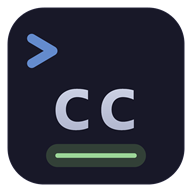
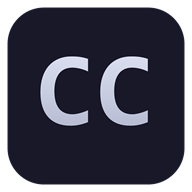
refactor: Enhance agent UUID fetching with retry logic and update UI elements for better branding and information display

Changed region(s): [[0.125, 0.1562, 0.4688, 0.6875], [0.5, 0.2812, 0.7812, 0.6875], [0.2188, 0.75, 0.7812, 0.875]]

diff --git a/wwwroot/index.html b/wwwroot/index.html
@@ -4,7 +4,7 @@
 <head>
     <meta charset="utf-8" />
     <meta name="viewport" content="width=device-width, initial-scale=1.0, maximum-scale=1.0, user-scalable=no" />
-    <title>cc</title>
+    <title>CC</title>
     <base href="/" />
     <link rel="preload" id="webassembly" />
     <link rel="stylesheet" href="css/app.css" />
@@ -12,7 +12,14 @@
     <link href="cc.styles.css" rel="stylesheet" />
     <link rel="manifest" href="manifest.webmanifest" />
     <link rel="apple-touch-icon" sizes="192x192" href="icon-192.png" />
+    <link rel="apple-touch-icon" sizes="512x512" href="icon-512.png" />
     <meta name="theme-color" content="#1e1e2e" />
+    <meta name="apple-mobile-web-app-capable" content="yes" />
+    <meta name="apple-mobile-web-app-status-bar-style" content="black-translucent" />
+    <meta name="apple-mobile-web-app-title" content="CC" />
+    <meta name="application-name" content="CC" />
+    <meta name="msapplication-TileColor" content="#181828" />
+    <meta name="description" content="Agent management and command & control panel" />
     <script>
         (function() {
             var t = localStorage.getItem('cc-theme') || 'dark';
@@ -26,7 +33,7 @@
 <body>
     <div id="app">
         <div class="cc-loading">
-            <span class="cc-loading-brand">cc</span>
+            <span class="cc-loading-brand">CC</span>
             <div class="cc-loading-spinner"></div>
             <div class="cc-loading-text"></div>
         </div>

diff --git a/Features/Storage/SettingsPanel.razor.css b/Features/Storage/SettingsPanel.razor.css
@@ -182,22 +182,44 @@
     display: flex;
     flex-direction: column;
     align-items: center;
-    gap: 1rem;
+    gap: 1.25rem;
     padding: 1.5rem 0;
 }
 
+.cm-about-hero {
+    display: flex;
+    flex-direction: column;
+    align-items: center;
+    gap: 0.5rem;
+}
+
+.cm-about-icon {
+    width: 72px;
+    height: 72px;
+    border-radius: 16px;
+    box-shadow: 0 2px 12px rgba(0, 0, 0, 0.3);
+}
+
 .cm-about-brand {
-    font-size: 2rem;
+    font-size: 1.6rem;
     font-weight: 800;
-    letter-spacing: -0.05em;
+    letter-spacing: 0.04em;
     color: var(--cc-text);
+    line-height: 1;
+}
+
+.cm-about-tagline {
+    font-size: 0.7rem;
+    color: var(--cc-text-dim);
+    letter-spacing: 0.06em;
+    text-transform: uppercase;
 }
 
 .cm-about-rows {
     display: flex;
     flex-direction: column;
     gap: 0.4rem;
-    min-width: 260px;
+    min-width: 280px;
 }
 
 .cm-about-row {
@@ -212,11 +234,16 @@
     color: var(--cc-text-dim);
     font-weight: 600;
     text-transform: uppercase;
+    flex-shrink: 0;
 }
 
 .cm-about-value {
-    font-size: 0.75rem;
+    font-size: 0.72rem;
     color: var(--cc-text);
+    text-align: right;
+    overflow: hidden;
+    text-overflow: ellipsis;
+    white-space: nowrap;
 }
 
 /* ===== Mobile ===== */

diff --git a/Features/Relay/RelayConnectionService.cs b/Features/Relay/RelayConnectionService.cs
@@ -148,8 +148,9 @@ public class RelayConnectionService : IAsyncDisposable
 
     // --- UUID fetching ---
 
-    private async Task FetchUuid(AgentConnection agent, string relayUrl)
+    private async Task FetchUuid(AgentConnection agent, string relayUrl, int attempt = 0)
     {
+        const int maxRetries = 2;
         var relay = new RelaySocket { BaseUrl = relayUrl };
         try
         {
@@ -164,14 +165,45 @@ public class RelayConnectionService : IAsyncDisposable
                     var uuid = guid.ToString();
                     agent.Os = platform;
                     agent.Arch = architecture;
+
+                    // Also update the live agent in the current connections array
+                    // in case it was replaced by a newer "agents" event
+                    if (_relayStates.TryGetValue(relayUrl, out var rs) && rs.Agents?.Connections is not null)
+                    {
+                        var liveAgent = rs.Agents.Connections.FirstOrDefault(a => a.Id == agent.Id);
+                        if (liveAgent is not null && liveAgent != agent)
+                        {
+                            liveAgent.Os = platform;
+                            liveAgent.Arch = architecture;
+                        }
+                    }
+
                     var relayEntry = _relayStore.GetByUrl(relayUrl);
                     await _agentDb.UpsertAsync(uuid, agent, relayEntry?.Id ?? "");
                     _bus.Publish(new RelayAgentsChangedEvent(relayUrl));
                     _bus.Publish(new AgentOnlineEvent(uuid, agent.Id, relayUrl));
+                    return;
                 }
             }
+
+            // Response was null, too short, or bad status — retry
+            if (attempt < maxRetries)
+            {
+                await relay.Disconnect();
+                await Task.Delay(1000 * (attempt + 1));
+                await FetchUuid(agent, relayUrl, attempt + 1);
+            }
         }
-        catch { }
+        catch when (attempt < maxRetries)
+        {
+            await relay.Disconnect();
+            await Task.Delay(1000 * (attempt + 1));
+            await FetchUuid(agent, relayUrl, attempt + 1);
+        }
+        catch (Exception ex)
+        {
+            Console.WriteLine($"[FetchUuid] Failed for {agent.Id} after {attempt + 1} attempts: {ex.Message}");
+        }
         finally
         {
             await relay.Disconnect();
